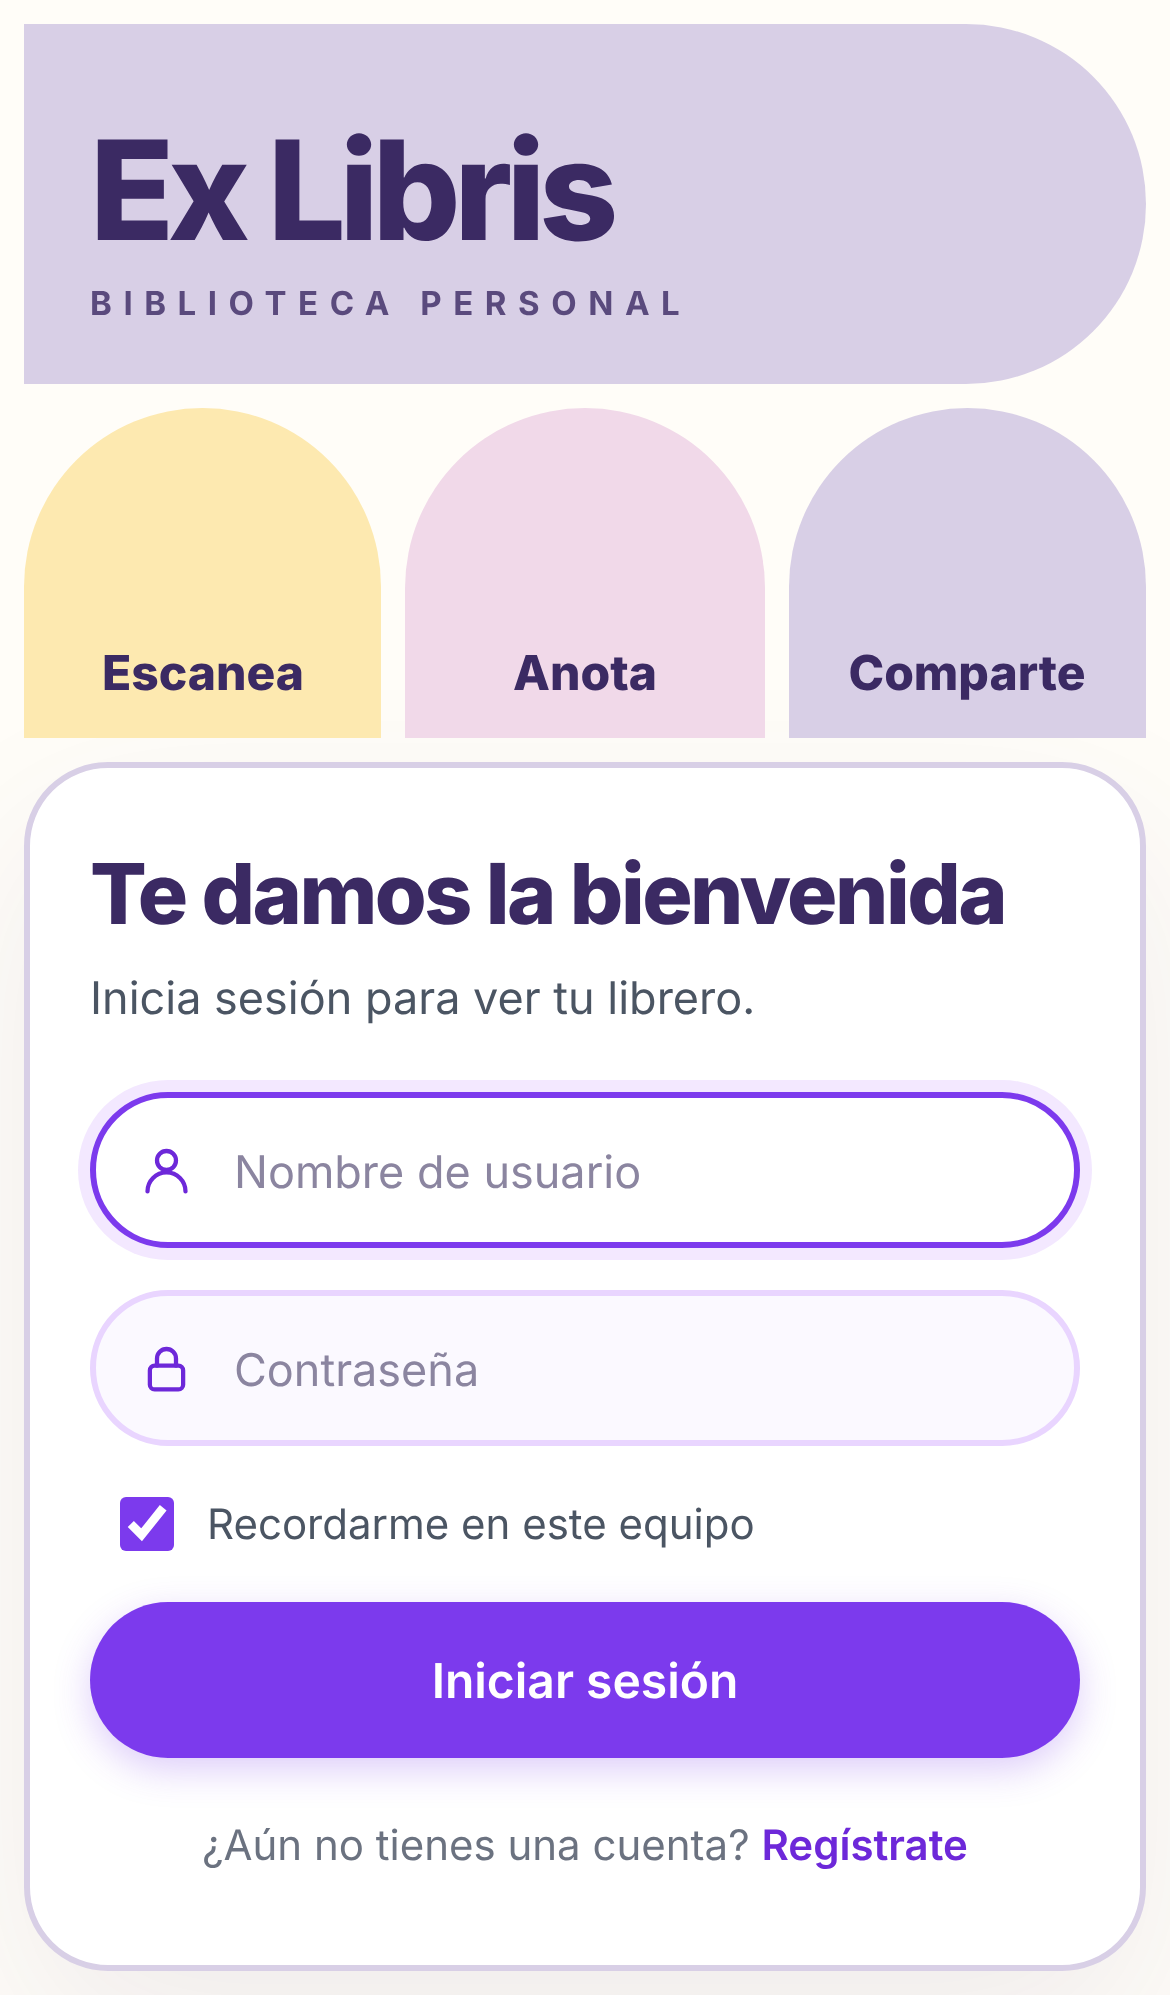
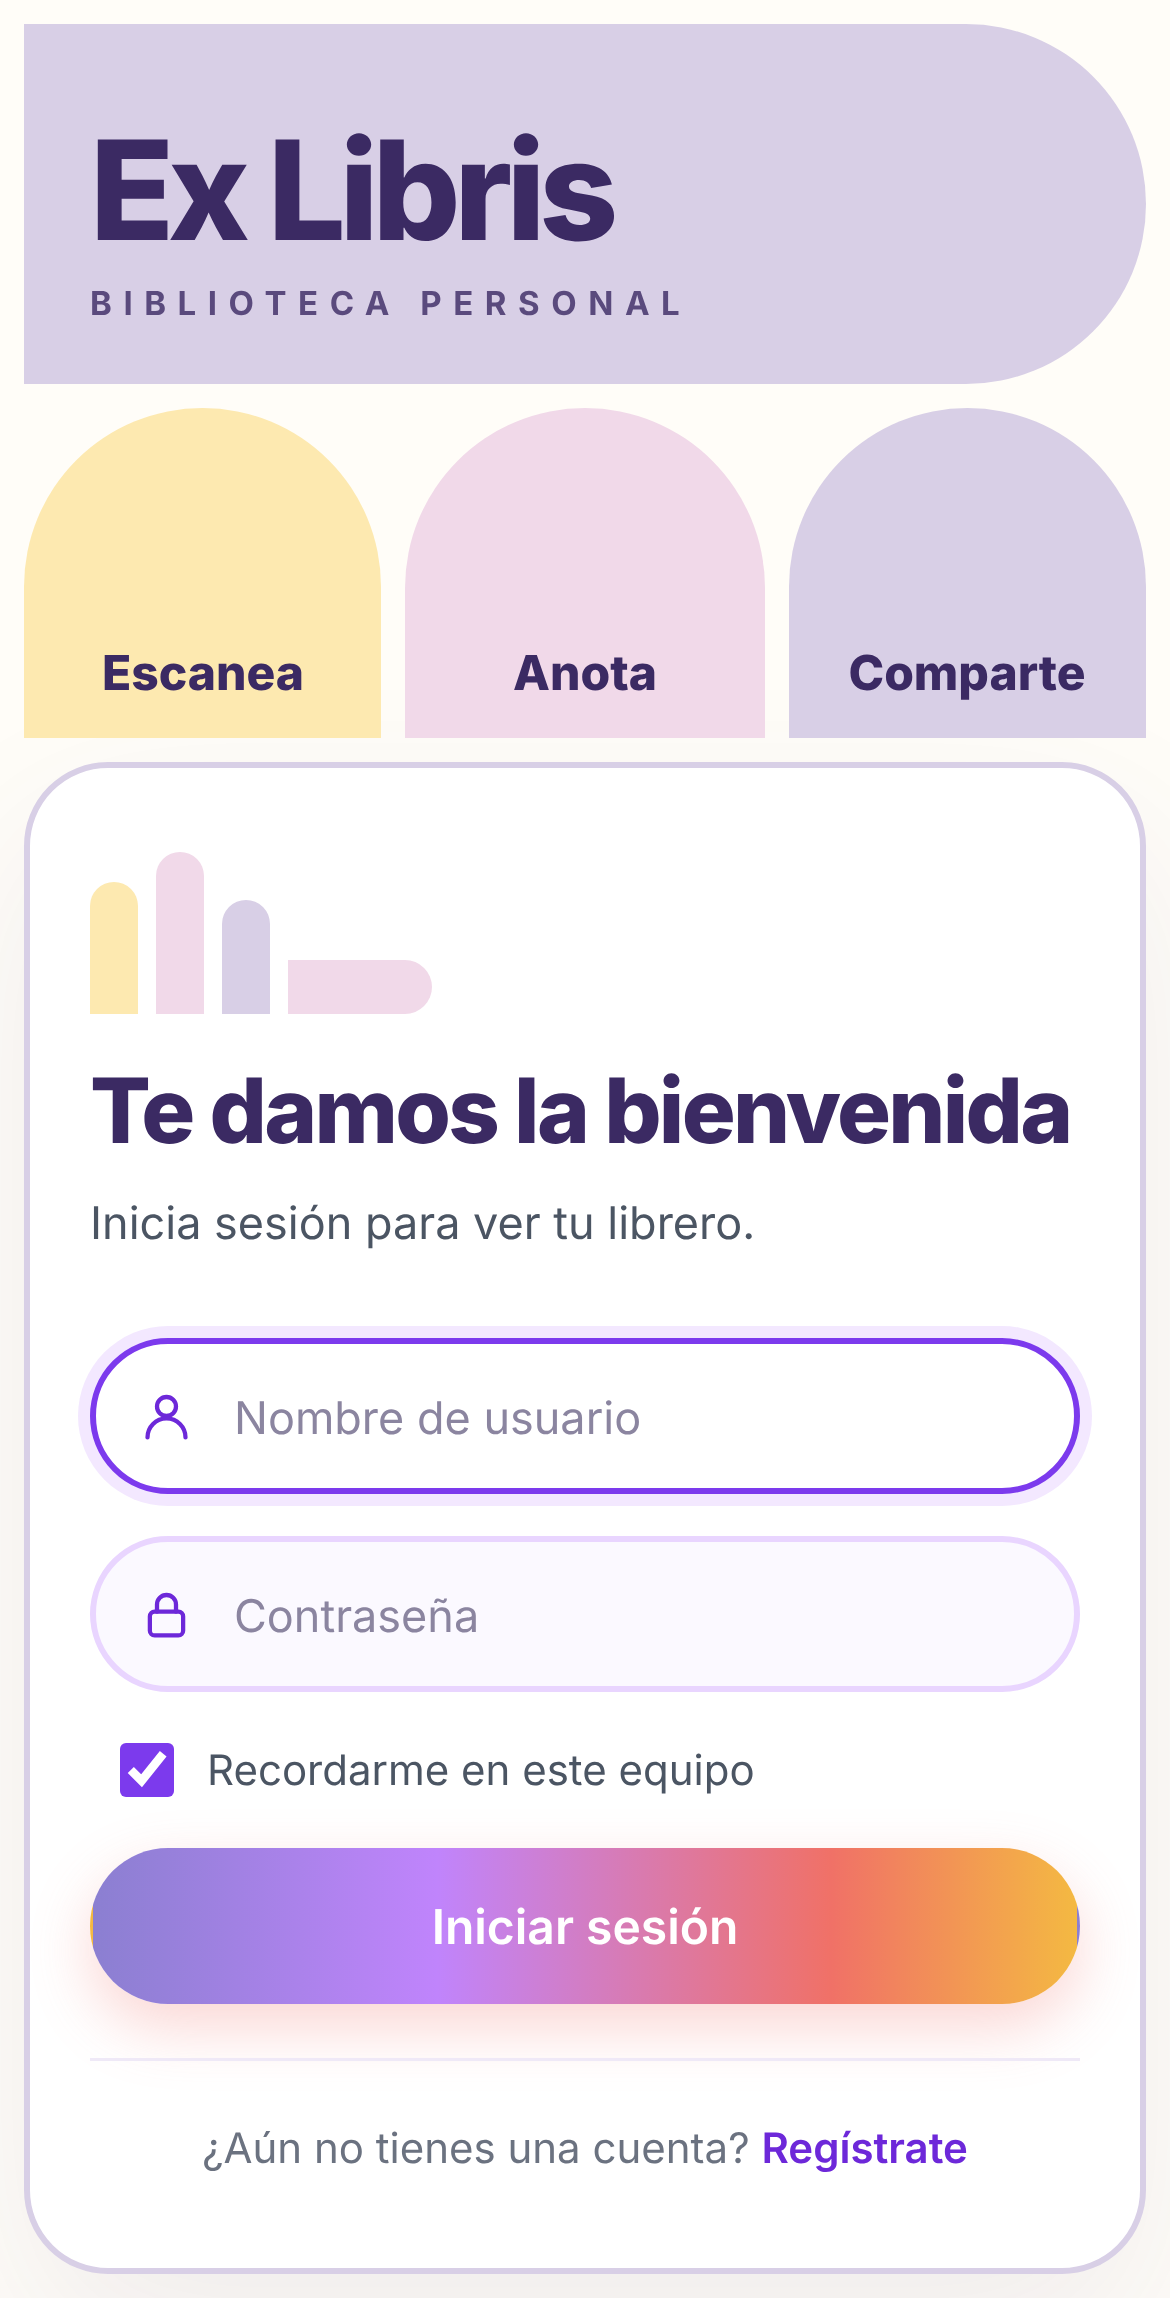
Login: tarjeta en tres zonas, botón con degradado y autocompletado en lila
Claude-Session: https://claude.ai/code/session_01GYL794gNVj3QXKcKwqtHSP

Changed region(s): [[0.0, 0.2797, 0.9846, 0.9945], [0.0, 0.0311, 0.9846, 0.2797], [0.8923, 0.0, 0.9231, 0.0311]]

diff --git a/biblioteca/static/biblioteca/css/exlibris.css b/biblioteca/static/biblioteca/css/exlibris.css
@@ -493,7 +493,7 @@ a:focus-visible, button:focus-visible, select:focus-visible, input[type=file]:fo
 /* Formulario dentro de un «lomo» con la parte de arriba en arco */
 .acceso-lado { display: grid; place-items: stretch; }
 .acceso-tarjeta {
-  display: flex; flex-direction: column; justify-content: center; gap: 22px; padding: clamp(32px, 4vw, 56px) clamp(24px, 3vw, 48px);
+  display: flex; flex-direction: column; justify-content: space-between; gap: 28px; padding: clamp(28px, 3vw, 44px) clamp(24px, 3vw, 48px);
   background: #fff; border: 2px solid var(--c-lavanda); border-radius: 32px; box-shadow: 0 24px 60px rgba(59, 42, 99, .08);
 }
 .acceso-marca { text-align: left; }
@@ -1027,3 +1027,20 @@ a.perfil { transition: box-shadow .15s; } a.perfil:hover { box-shadow: var(--som
   .compartir-historial li { grid-template-columns: minmax(0, 1fr) auto; }
   .compartir-historial li span:nth-of-type(1) { grid-column: 1; }
 }
+
+/* ---------- Tarjeta de acceso: arriba una mini pila decorativa, al centro el formulario, abajo el enlace ---------- */
+.tarjeta-libros { display: flex; align-items: flex-end; gap: 6px; height: 54px; }
+.tarjeta-libros span { width: 16px; border-radius: 999px 999px 3px 3px; background: var(--c-amarillo); }
+.tarjeta-libros span:nth-child(1) { height: 44px; }
+.tarjeta-libros span:nth-child(2) { height: 54px; background: var(--c-rosa); }
+.tarjeta-libros span:nth-child(3) { height: 38px; background: var(--c-lavanda); }
+.tarjeta-libros span:nth-child(4) { height: 18px; width: 48px; border-radius: 3px 999px 999px 3px; background: var(--c-rosa); }
+.acceso-centro { width: 100%; max-width: 440px; margin: 0 auto; display: grid; gap: 26px; }
+.acceso-centro .acceso-marca h2 { font-size: clamp(30px, 2.8vw, 40px); }
+.acceso-pie { text-align: center; color: var(--texto-suave); font-size: 14px; padding-top: 18px; border-top: 1px solid #efe9f7; }
+.acceso-pie a { color: var(--primario-texto); font-weight: 600; }
+/* Autocompletado del navegador: lila en lugar del azul por defecto */
+.campo-icono input:-webkit-autofill, .campo-icono input:-webkit-autofill:hover, .campo-icono input:-webkit-autofill:focus {
+  -webkit-box-shadow: 0 0 0 40px #f7f3ff inset; -webkit-text-fill-color: var(--texto); caret-color: var(--texto);
+}
+.acceso .boton-arcoiris { min-height: 52px; font-size: 16px; }

diff --git a/biblioteca/templates/registration/login.html b/biblioteca/templates/registration/login.html
@@ -6,6 +6,8 @@
   {% include "registration/_cartel.html" %}
   <div class="acceso-lado">
   <div class="acceso-tarjeta">
+    <div class="tarjeta-libros" aria-hidden="true"><span></span><span></span><span></span><span></span></div>
+    <div class="acceso-centro">
     <header class="acceso-marca">
       <h2>Te damos la bienvenida</h2>
       <p class="marca-texto">Inicia sesión para ver tu librero.</p>
@@ -25,9 +27,10 @@
       </label>
       <label class="recordarme"><input type="checkbox" name="recordarme" checked> Recordarme en este equipo</label>
       <input type="hidden" name="next" value="{{ next }}">
-      <button class="boton boton-primario boton-ancho" type="submit">Iniciar sesión</button>
-      <p class="cambio">¿Aún no tienes una cuenta? <a href="{% url 'registro' %}">Regístrate</a></p>
+      <button class="boton boton-arcoiris boton-ancho" type="submit">Iniciar sesión</button>
     </form>
+    </div>
+    <p class="cambio acceso-pie">¿Aún no tienes una cuenta? <a href="{% url 'registro' %}">Regístrate</a></p>
   </div>
   </div>
 </main>

diff --git a/biblioteca/templates/registration/registro.html b/biblioteca/templates/registration/registro.html
@@ -6,6 +6,8 @@
   {% include "registration/_cartel.html" %}
   <div class="acceso-lado">
   <div class="acceso-tarjeta">
+    <div class="tarjeta-libros" aria-hidden="true"><span></span><span></span><span></span><span></span></div>
+    <div class="acceso-centro">
     <header class="acceso-marca">
       <h2>Crea tu cuenta</h2>
       <p class="marca-texto">Empieza tu librero en un minuto.</p>
@@ -20,9 +22,10 @@
         </label>
         {% if campo.errors %}<p class="acceso-error-campo" id="err-{{ campo.html_name }}">{{ campo.errors|first }}</p>{% endif %}
       {% endfor %}
-      <button class="boton boton-primario boton-ancho" type="submit">Crear cuenta</button>
-      <p class="cambio">¿Ya tienes una cuenta? <a href="{% url 'login' %}">Inicia sesión</a></p>
+      <button class="boton boton-arcoiris boton-ancho" type="submit">Crear cuenta</button>
     </form>
+    </div>
+    <p class="cambio acceso-pie">¿Ya tienes una cuenta? <a href="{% url 'login' %}">Inicia sesión</a></p>
   </div>
   </div>
 </main>

diff --git a/AI_LOG.md b/AI_LOG.md
@@ -44,3 +44,4 @@ La IA generativa *dentro* de la app (fase 2) usará un LLM gratuito (Gemini u Ol
 | 30 | 2026-11-26 | Diseño | Claude Code | «Guardar cambios» → «Guardar»; botón de editar de Compartidos a la derecha; mejor distribución de la tarjeta «Compartir» y del formulario de anotaciones; etiquetas en la paleta pastel | Editar en su propia columna al final de cada fila. Tarjeta «Compartir» con tres datos (con quién, desde, devolución), franja «¿Ya te lo devolvieron?» con «Devuelto» y editar, e historial en lista. Anotación: texto arriba y página + «Anotar» en una fila. Etiquetas: Compartido/Activo = morado, Devuelto = rosado, En casa = amarillo, Vencido = rojo suave. 119 pruebas | ⏳ Pendiente de revisión |
 | 31 | 2026-11-26 | Diseño | Claude Code | Rediseñar el login como carteles suizos de bloques-libro (referencias de Pinterest) con la paleta y la tipografía de la app | Cartel hecho solo con CSS Grid: bloque «Ex Libris» en píldora violeta, tres lomos (Escanea · Anota · Comparte) en lila, rosado y amarillo, bloque con código de barras (guiño al escáner de ISBN) y pila inferior con el lema. Formulario dentro de un «lomo» blanco con borde violeta y arco superior. Se elimina la ilustración con gatos. En el celular, cartel compacto arriba y formulario debajo. Primera versión con esquinas elípticas en porcentaje que deformaban las píldoras; corregido a radios semicirculares | ⏳ Pendiente de revisión |
 | 32 | 2026-11-26 | Diseño | Claude Code | Quitar el código de barras, mejorar la composición, quitar el arco del formulario y la etiqueta «EX LIBRIS», usar la paleta amarillo pálido / lavanda / rosado | El código de barras se reemplaza por una pila de tres libros horizontales con extremos alternados; marca sobre lavanda con texto oscuro; lomos en amarillo, rosado y lavanda; tarjeta del formulario rectangular con esquinas suaves y borde lavanda. Los tonos pastel se profundizaron un poco para que se distingan sobre el fondo crema | ⏳ Pendiente de revisión |
+| 33 | 2026-11-26 | Diseño | Claude Code | Mejorar la distribución de la tarjeta del login y usar el degradado de «Escanear»/«Buscar» en el botón | Tarjeta en tres zonas: mini pila de libros arriba, formulario centrado con ancho máximo de 440 px y enlace «Regístrate» como pie separado por una línea. Botón con el degradado de marca. Autocompletado del navegador en lila en lugar del azul por defecto | ⏳ Pendiente de revisión |
